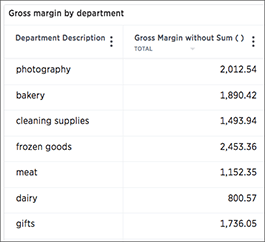
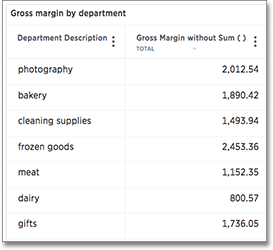
SCAL 70361: updated images in Aggregation formulas article

diff --git a/_complex-search/aggregation-formulas.md b/_complex-search/aggregation-formulas.md
@@ -1,7 +1,7 @@
 ---
 title: [Overview of aggregate formulas]
 summary: Learn about aggregate formulas.
-last_updated: 8/19/2020
+last_updated: 11/23/2020
 sidebar: mydoc_sidebar
 permalink: /:collection/:path.html
 ---
@@ -32,7 +32,7 @@ group of rows. Some examples of functions you find in aggregation formulas are:
 You can tell which formulas are aggregation formulas by looking at the function
 list in the **Formula Assistant**. Aggregation functions have their own section.
 
- ![]({{ site.baseurl }}/images/formula_asst_aggregate.png "Aggregation formulas in the Formula Assistant")
+ ![]({{ site.baseurl }}/images/formula-asst-aggregate.png "Aggregation formulas in the Formula Assistant")
 
 ## Advanced aggregation functions
 
